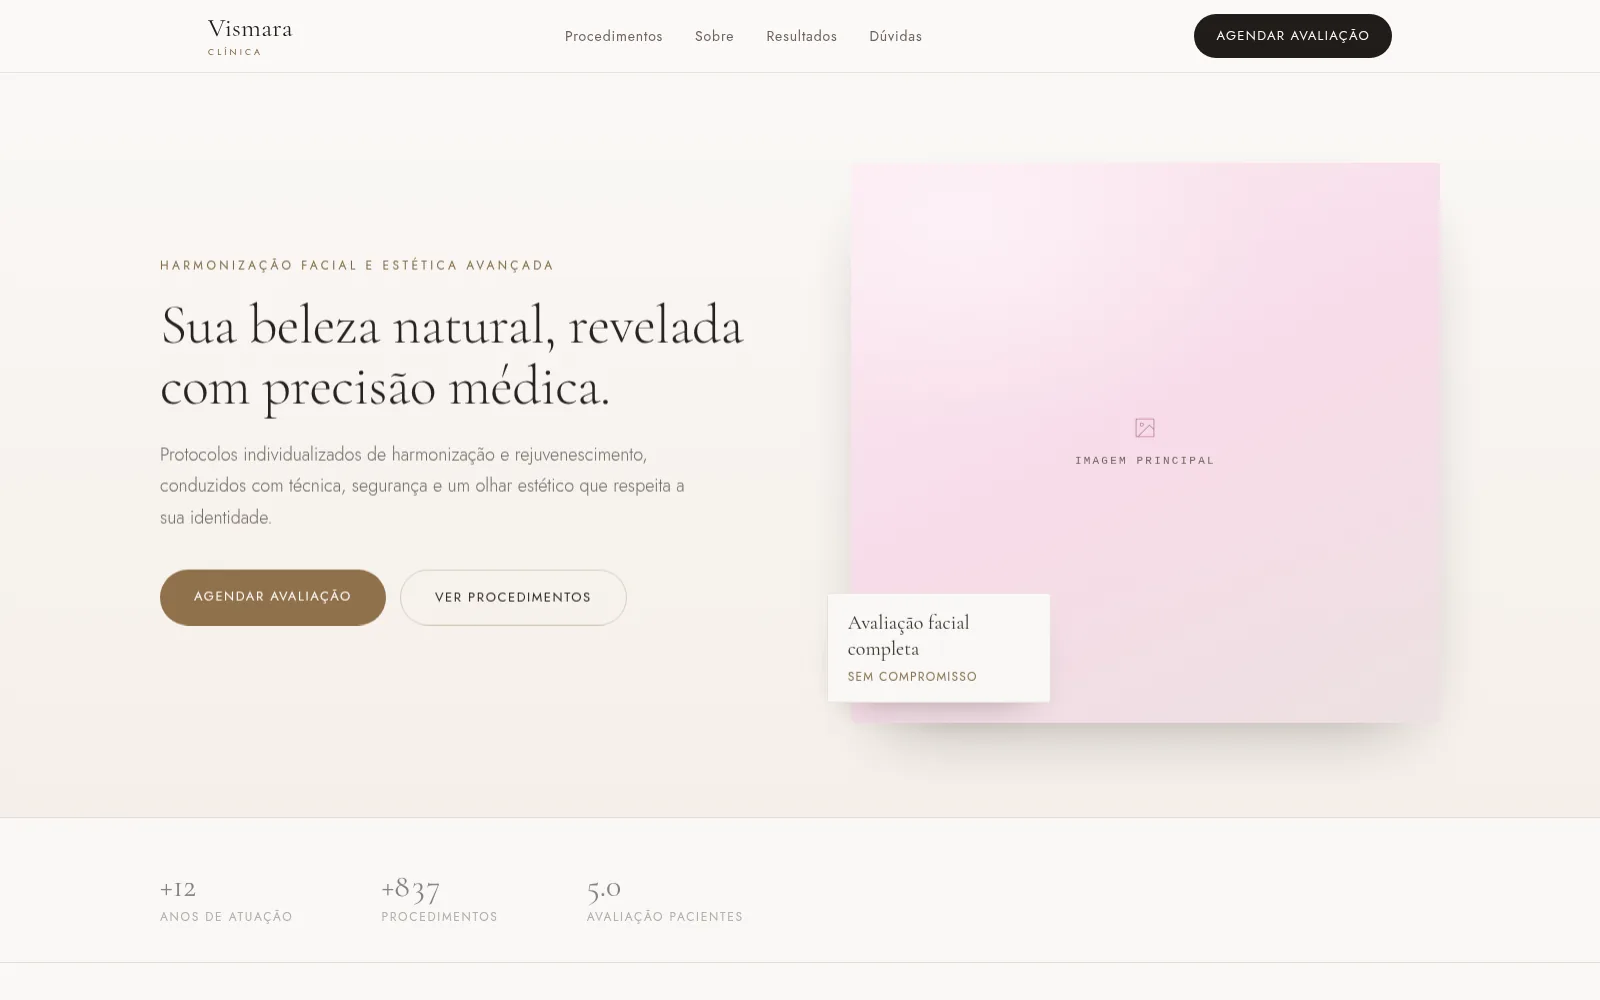
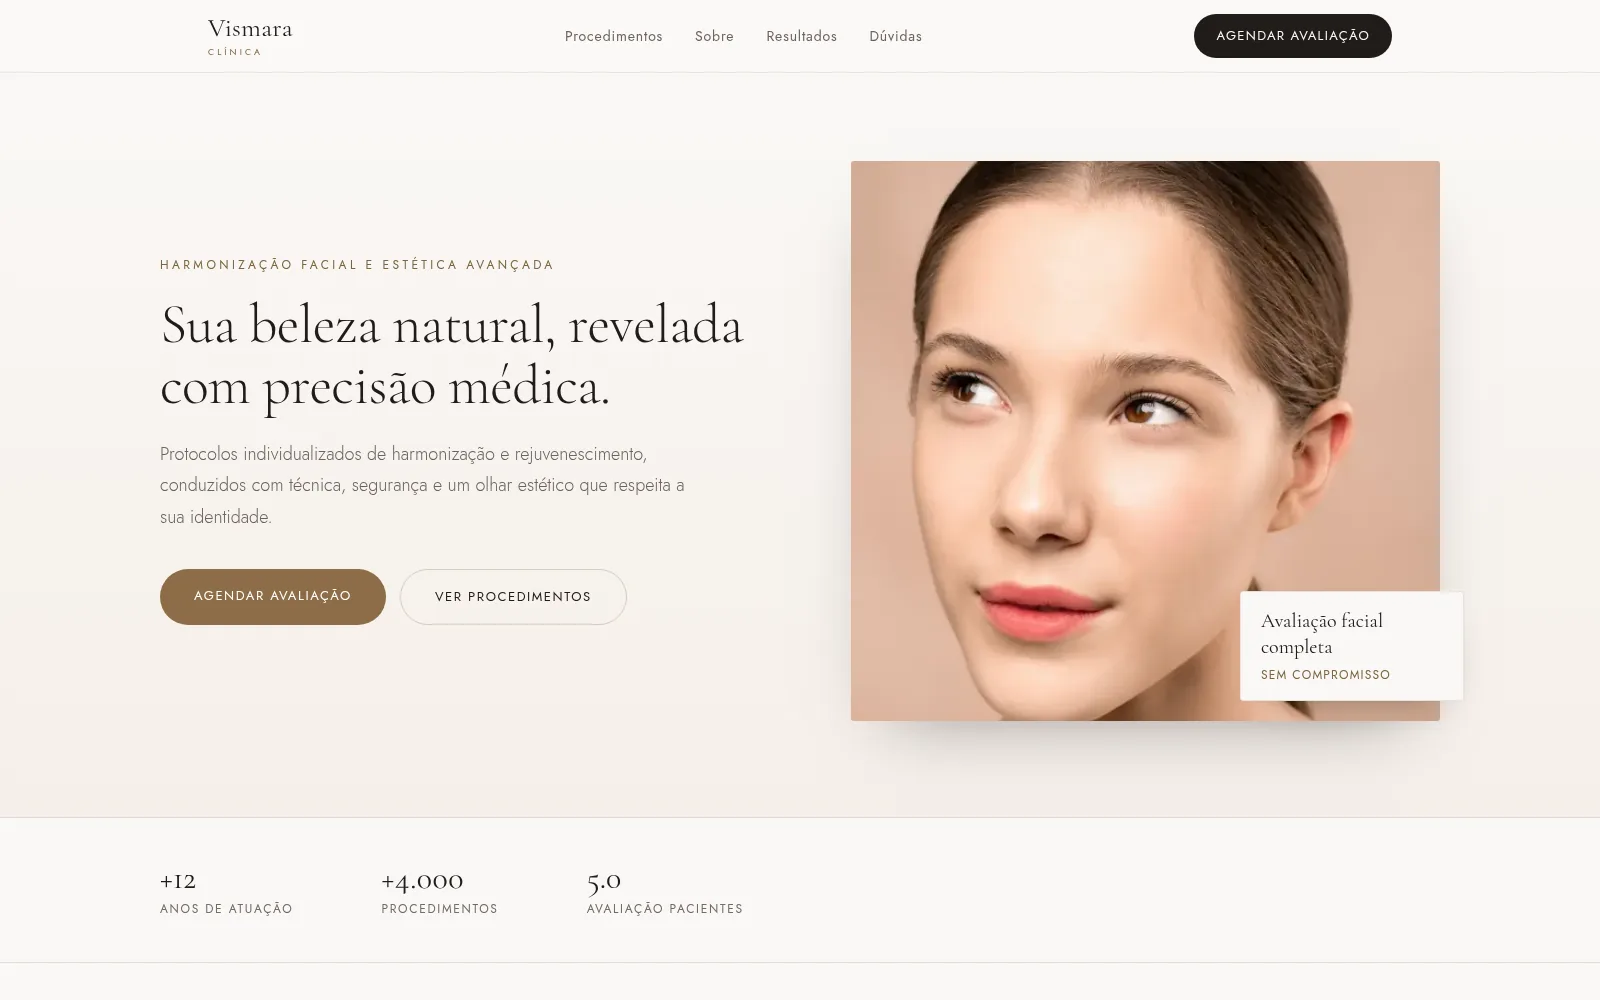
feat: two live cases, clickable previews
Reorders the portfolio around the two landing pages that are actually
published: Clinica Vismara (estetica) becomes the featured case and fills the
hero, Nogueira & Sampaio (advocacia) comes last with its sides mirrored.
Drops the odontologia case, which is a whitelabel base rather than a client
site, along with its assets.

Screenshots are recaptured from the deployed Vercel sites instead of a local
build, so the estetica case now shows its real photography.

Every preview, in the hero and in both case rows, links to the live site, and
each case also gets an explicit "Abrir site" button next to "Ver codigo".

Claude-Session: https://claude.ai/code/session_01EJnRMGWi8Air4SKLyBtULn

diff --git a/components/projetos-section.tsx b/components/projetos-section.tsx
@@ -1,16 +1,23 @@
-import { GithubLogo } from "@phosphor-icons/react/dist/ssr";
+import { ArrowUpRight, GithubLogo } from "@phosphor-icons/react/dist/ssr";
 import { projetos, type Projeto } from "@/lib/content";
 import { BrowserFrame, PhoneFrame } from "./device-frames";
 import { Reveal } from "./reveal";
 
-function Moldura({ p, prioridade = false }: { p: Projeto; prioridade?: boolean }) {
+/** A captura inteira é o link para o site publicado. */
+function Preview({ p }: { p: Projeto }) {
   const alt = `Topo da landing page ${p.nome}, do segmento de ${p.segmento.toLowerCase()}.`;
 
   return (
-    <div className="min-w-0">
+    <a
+      href={p.link}
+      target="_blank"
+      rel="noreferrer noopener"
+      aria-label={`Abrir o site ${p.nome} em uma nova aba`}
+      className="group block min-w-0 transition-transform duration-300 hover:-translate-y-1"
+    >
       {/* Abaixo de 640px a captura de tela larga fica ilegível: entra a de celular. */}
       <div className="sm:hidden">
-        <PhoneFrame src={p.imagemMobile} alt={alt} tema="escuro" prioridade={prioridade} />
+        <PhoneFrame src={p.imagemMobile} alt={alt} tema="escuro" />
       </div>
       <div className="hidden sm:block">
         <BrowserFrame
@@ -22,30 +29,24 @@ function Moldura({ p, prioridade = false }: { p: Projeto; prioridade?: boolean }
           tema="escuro"
         />
       </div>
-    </div>
+    </a>
   );
 }
 
-function Texto({ p, grande = false }: { p: Projeto; grande?: boolean }) {
+function Texto({ p }: { p: Projeto }) {
   return (
     <div className="min-w-0">
       <div className="flex flex-wrap items-baseline gap-x-3 gap-y-1">
-        <h3
-          className={`font-display font-semibold tracking-[-0.025em] ${
-            grande ? "text-[26px] lg:text-[34px]" : "text-[21px]"
-          }`}
-        >
+        <h3 className="font-display text-[26px] font-semibold tracking-[-0.025em] lg:text-[34px]">
           {p.nome}
         </h3>
         <span className="text-[14px] text-paper/45">{p.segmento}</span>
       </div>
-      <p
-        className={`mt-3 max-w-[56ch] leading-relaxed text-night-text ${
-          grande ? "text-[16px] lg:text-[17px]" : "text-[15px]"
-        }`}
-      >
+
+      <p className="mt-3 max-w-[56ch] text-[16px] leading-relaxed text-night-text lg:text-[17px]">
         {p.resumo}
       </p>
+
       <div className="mt-5 flex flex-wrap gap-2">
         {p.stack.map((s) => (
           <span
@@ -56,44 +57,50 @@ function Texto({ p, grande = false }: { p: Projeto; grande?: boolean }) {
           </span>
         ))}
       </div>
-      <a
-        href={p.repo}
-        target="_blank"
-        rel="noreferrer noopener"
-        className="mt-6 inline-flex min-h-11 items-center gap-2 rounded-full border border-night-line px-5 py-2.5 text-[15px] font-medium text-paper transition-colors duration-200 hover:bg-paper/10"
-      >
-        <GithubLogo size={17} weight="bold" />
-        Ver código
-      </a>
+
+      <div className="mt-6 flex flex-wrap gap-3">
+        <a
+          href={p.link}
+          target="_blank"
+          rel="noreferrer noopener"
+          className="inline-flex min-h-11 items-center gap-2 rounded-full bg-paper px-5 py-2.5 text-[15px] font-medium text-ink transition-transform duration-200 hover:scale-[1.04] active:scale-[0.98]"
+        >
+          Abrir site
+          <ArrowUpRight size={16} weight="bold" />
+        </a>
+        <a
+          href={p.repo}
+          target="_blank"
+          rel="noreferrer noopener"
+          className="inline-flex min-h-11 items-center gap-2 rounded-full border border-night-line px-5 py-2.5 text-[15px] font-medium text-paper transition-colors duration-200 hover:bg-paper/10"
+        >
+          <GithubLogo size={17} weight="bold" />
+          Ver código
+        </a>
+      </div>
     </div>
   );
 }
 
 export function ProjetosSection() {
-  const [principal, ...restantes] = projetos;
-
   return (
     /* Corte de cor deliberado: uma única seção escura, o resto da página é claro. */
     <section id="projetos" className="bg-night text-paper">
       <div className="mx-auto max-w-[1400px] px-4 py-20 sm:px-8 lg:px-12 lg:py-28">
         <Reveal>
           <h2 className="max-w-[22ch] font-display text-[clamp(1.75rem,3.4vw,3rem)] font-semibold leading-[1.05] tracking-[-0.03em] text-balance">
-            Três páginas, três formas de resolver
+            Dois sites no ar, duas formas de resolver
           </h2>
         </Reveal>
 
-        <Reveal className="mt-10 lg:mt-16">
-          <article className="grid items-center gap-8 lg:grid-cols-[1.15fr_1fr] lg:gap-14">
-            <Moldura p={principal} />
-            <Texto p={principal} grande />
-          </article>
-        </Reveal>
-
-        <div className="mt-8 grid gap-8 lg:mt-14 lg:grid-cols-2 lg:gap-10">
-          {restantes.map((p, i) => (
-            <Reveal key={p.nome} delay={i * 8}>
-              <article className="flex h-full flex-col gap-6">
-                <Moldura p={p} />
+        <div className="mt-10 flex flex-col gap-16 lg:mt-16 lg:gap-24">
+          {projetos.map((p, i) => (
+            <Reveal key={p.nome}>
+              {/* O segundo case inverte os lados, para a página não virar duas fileiras iguais. */}
+              <article className="grid items-center gap-8 lg:grid-cols-[1.15fr_1fr] lg:gap-14">
+                <div className={i % 2 === 1 ? "lg:order-2" : undefined}>
+                  <Preview p={p} />
+                </div>
                 <Texto p={p} />
               </article>
             </Reveal>

diff --git a/components/hero.tsx b/components/hero.tsx
@@ -1,10 +1,11 @@
 import Image from "next/image";
 import { ArrowRight } from "@phosphor-icons/react/dist/ssr";
-import { hero } from "@/lib/content";
+import { hero, projetos } from "@/lib/content";
 import { PhoneFrame } from "./device-frames";
 
-const alt =
-  "Topo da landing page do escritório Nogueira & Sampaio, com título, chamada e foto da advogada.";
+/** O primeiro case da lista é a vitrine do herói. */
+const destaque = projetos[0];
+const alt = `Topo da landing page ${destaque.nome}, do segmento de ${destaque.segmento.toLowerCase()}.`;
 
 export function Hero() {
   return (
@@ -46,46 +47,55 @@ export function Hero() {
         </div>
       </div>
 
-      {/* Abaixo de 640px a captura de tela larga fica ilegível: entra a de celular. */}
-      <div className="sm:hidden">
-        <PhoneFrame src="/projetos/advocacia-mobile.webp" alt={alt} prioridade />
-      </div>
+      {/* A captura inteira leva ao site publicado. */}
+      <a
+        href={destaque.link}
+        target="_blank"
+        rel="noreferrer noopener"
+        aria-label={`Abrir o site ${destaque.nome} em uma nova aba`}
+        className="block min-w-0 transition-transform duration-300 hover:-translate-y-1"
+      >
+        {/* Abaixo de 640px a captura de tela larga fica ilegível: entra a de celular. */}
+        <div className="sm:hidden">
+          <PhoneFrame src={destaque.imagemMobile} alt={alt} prioridade />
+        </div>
 
-      {/* Moldura de navegador com captura real do projeto publicado, com a versão
-          de celular sobreposta. Só a partir de 640px, onde o texto ainda se lê. */}
-      <div className="relative hidden min-w-0 pb-14 sm:block sm:pb-16 lg:pb-0">
-        <div className="overflow-hidden rounded-[18px] border border-line-soft bg-surface shadow-[0_24px_60px_rgba(23,21,15,0.14),0_2px_6px_rgba(23,21,15,0.06)]">
-          <div className="flex items-center gap-2 border-b border-line-soft bg-paper-deep px-4 py-3">
-            <span className="block size-2.5 rounded-full bg-ink/15" aria-hidden />
-            <span className="block size-2.5 rounded-full bg-ink/15" aria-hidden />
-            <span className="block size-2.5 rounded-full bg-ink/15" aria-hidden />
-            <span className="ml-2 flex h-[22px] min-w-0 flex-1 items-center truncate rounded-full bg-ink/5 px-3 font-mono text-[11px] text-ink-3">
-              nogueira-sampaio-advocacia
-            </span>
+        {/* Moldura de navegador com a captura real, e a versão de celular sobreposta.
+            Só a partir de 640px, onde o texto ainda se lê. */}
+        <div className="relative hidden pb-14 sm:block sm:pb-16 lg:pb-0">
+          <div className="overflow-hidden rounded-[18px] border border-line-soft bg-surface shadow-[0_24px_60px_rgba(23,21,15,0.14),0_2px_6px_rgba(23,21,15,0.06)]">
+            <div className="flex items-center gap-2 border-b border-line-soft bg-paper-deep px-4 py-3">
+              <span className="block size-2.5 rounded-full bg-ink/15" aria-hidden />
+              <span className="block size-2.5 rounded-full bg-ink/15" aria-hidden />
+              <span className="block size-2.5 rounded-full bg-ink/15" aria-hidden />
+              <span className="ml-2 flex h-[22px] min-w-0 flex-1 items-center truncate rounded-full bg-ink/5 px-3 font-mono text-[11px] text-ink-3">
+                {destaque.url}
+              </span>
+            </div>
+            <Image
+              src={destaque.imagem}
+              alt={alt}
+              width={destaque.largura}
+              height={destaque.altura}
+              priority
+              sizes="(max-width: 1024px) 100vw, 620px"
+              className="h-auto w-full"
+            />
           </div>
-          <Image
-            src="/projetos/advocacia-desktop.webp"
-            alt={alt}
-            width={1600}
-            height={1000}
-            priority
-            sizes="(max-width: 1024px) 100vw, 620px"
-            className="h-auto w-full"
-          />
-        </div>
 
-        <div className="absolute -bottom-2 right-0 w-[32%] max-w-[150px] overflow-hidden rounded-[12px] border border-line-soft bg-surface shadow-[0_18px_44px_rgba(23,21,15,0.18)] lg:-bottom-10 lg:-right-8">
-          <div className="h-4 border-b border-line-soft bg-paper-deep" aria-hidden />
-          <Image
-            src="/projetos/advocacia-mobile.webp"
-            alt="A mesma página em tela de celular, com a navegação recolhida."
-            width={430}
-            height={932}
-            sizes="150px"
-            className="h-auto w-full"
-          />
+          <div className="absolute -bottom-2 right-0 w-[32%] max-w-[150px] overflow-hidden rounded-[12px] border border-line-soft bg-surface shadow-[0_18px_44px_rgba(23,21,15,0.18)] lg:-bottom-10 lg:-right-8">
+            <div className="h-4 border-b border-line-soft bg-paper-deep" aria-hidden />
+            <Image
+              src={destaque.imagemMobile}
+              alt="A mesma página em tela de celular, com a navegação recolhida."
+              width={430}
+              height={932}
+              sizes="150px"
+              className="h-auto w-full"
+            />
+          </div>
         </div>
-      </div>
+      </a>
     </section>
   );
 }

diff --git a/lib/content.ts b/lib/content.ts
@@ -25,7 +25,7 @@ export const hero = {
 };
 
 export const indicadores = [
-  { valor: "03", rotulo: "projetos publicados" },
+  { valor: "02", rotulo: "sites publicados" },
   { valor: "100%", rotulo: "código próprio, sem builder" },
   { valor: "AA", rotulo: "contraste mínimo em todos" },
 ];
@@ -82,7 +82,10 @@ export const servicos: Servico[] = [
 export type Projeto = {
   nome: string;
   segmento: string;
+  /** domínio mostrado na barra da moldura */
   url: string;
+  /** site publicado, aberto ao clicar na captura */
+  link: string;
   repo: string;
   imagem: string;
   imagemMobile: string;
@@ -94,22 +97,10 @@ export type Projeto = {
 
 export const projetos: Projeto[] = [
   {
-    nome: "Nogueira & Sampaio",
-    segmento: "Advocacia",
-    url: "nogueira-sampaio-advocacia",
-    repo: "https://github.com/PedroRamosPereira/nogueira-sampaio-advocacia",
-    imagem: "/projetos/advocacia-desktop.webp",
-    imagemMobile: "/projetos/advocacia-mobile.webp",
-    largura: 1600,
-    altura: 1000,
-    resumo:
-      "Escritório de família e sucessões. Azul sozinho no lugar do dourado que vira clichê na categoria, uma família tipográfica só e formulário que abre o WhatsApp já preenchido.",
-    stack: ["HTML", "CSS", "JS sem framework"],
-  },
-  {
     nome: "Clínica Vismara",
     segmento: "Estética",
-    url: "landing-page-estetica",
+    url: "landing-page-estetica-gray.vercel.app",
+    link: "https://landing-page-estetica-gray.vercel.app",
     repo: "https://github.com/PedroRamosPereira/landing-page-estetica",
     imagem: "/projetos/estetica-desktop.webp",
     imagemMobile: "/projetos/estetica-mobile.webp",
@@ -120,17 +111,18 @@ export const projetos: Projeto[] = [
     stack: ["Next.js 16", "Tailwind v4", "CSS scroll-driven"],
   },
   {
-    nome: "Clínica odontológica",
-    segmento: "Odontologia",
-    url: "lading-page-odontologia",
-    repo: "https://github.com/PedroRamosPereira/Lading-page-odontologia",
-    imagem: "/projetos/odontologia-desktop.webp",
-    imagemMobile: "/projetos/odontologia-mobile.webp",
+    nome: "Nogueira & Sampaio",
+    segmento: "Advocacia",
+    url: "nogueira-sampaio-advocacia.vercel.app",
+    link: "https://nogueira-sampaio-advocacia.vercel.app",
+    repo: "https://github.com/PedroRamosPereira/nogueira-sampaio-advocacia",
+    imagem: "/projetos/advocacia-desktop.webp",
+    imagemMobile: "/projetos/advocacia-mobile.webp",
     largura: 1600,
     altura: 1000,
     resumo:
-      "Base whitelabel: todo o conteúdo mora em um arquivo só, com espaço reservado marcado para foto, CRO e contato. Serve de ponto de partida para qualquer clínica.",
-    stack: ["Next.js 16", "Tailwind v4", "Motion"],
+      "Escritório de família e sucessões. Azul sozinho no lugar do dourado que vira clichê na categoria, uma família tipográfica só e formulário que abre o WhatsApp já preenchido.",
+    stack: ["HTML", "CSS", "JS sem framework"],
   },
 ];
 

diff --git a/README.md b/README.md
@@ -27,21 +27,20 @@ carregam string solta.
 
 ## Capturas dos projetos
 
-`public/projetos/` guarda capturas reais de cada projeto em WebP, feitas do build de produção
-rodando local, em 1600x1000 (desktop) e 430x932 (celular):
+`public/projetos/` guarda capturas reais de cada projeto em WebP, tiradas do site publicado
+na Vercel, em 1600x1000 (desktop) e 430x932 (celular). Clicar na captura abre o site.
 
-| Projeto | Repositório |
-| --- | --- |
-| Nogueira & Sampaio (advocacia) | `PedroRamosPereira/nogueira-sampaio-advocacia` |
-| Clínica Vismara (estética) | `PedroRamosPereira/landing-page-estetica` |
-| Clínica odontológica (whitelabel) | `PedroRamosPereira/Lading-page-odontologia` |
+| Projeto | Repositório | No ar |
+| --- | --- | --- |
+| Clínica Vismara (estética) | `PedroRamosPereira/landing-page-estetica` | https://landing-page-estetica-gray.vercel.app |
+| Nogueira & Sampaio (advocacia) | `PedroRamosPereira/nogueira-sampaio-advocacia` | https://nogueira-sampaio-advocacia.vercel.app |
 
-Para atualizar uma captura, suba o projeto em produção e rode:
+Para atualizar uma captura:
 
 ```bash
 google-chrome --headless=new --hide-scrollbars --force-prefers-reduced-motion \
-  --virtual-time-budget=12000 --window-size=1600,1000 \
-  --screenshot=/tmp/NOME.png http://localhost:PORTA/
+  --virtual-time-budget=20000 --window-size=1600,1000 \
+  --screenshot=/tmp/NOME.png https://ENDERECO-DO-SITE/
 convert /tmp/NOME.png -quality 82 public/projetos/NOME-desktop.webp
 ```
 
